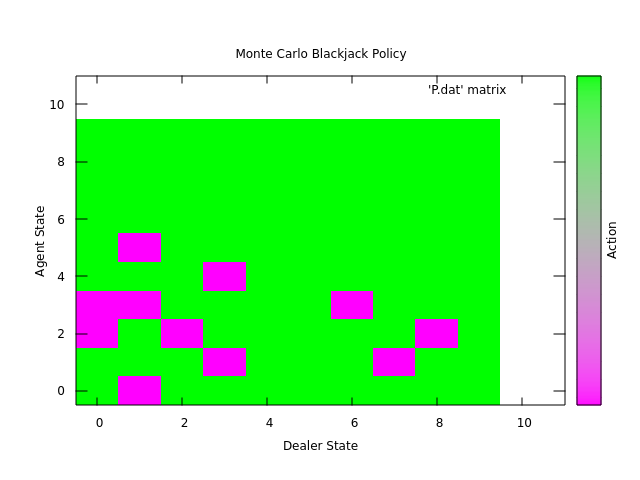
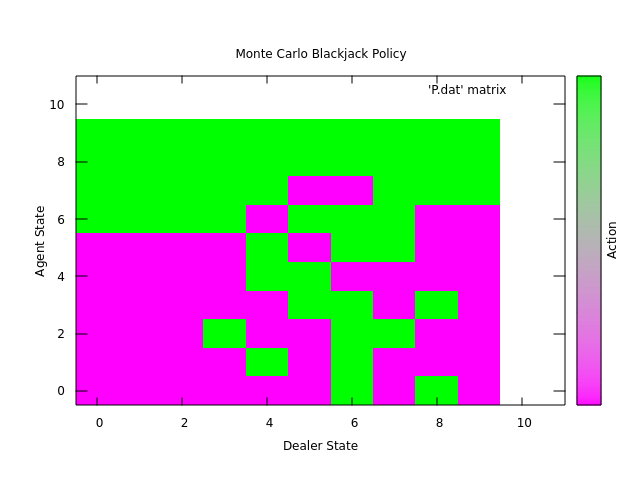
matches book better sort of fixed this example with a verbose unreadable solution issue may be that i am not enforcing first visit

Changed region(s): [[0.0938, 0.3438, 0.7812, 0.8438]]

diff --git a/Section 5.3 - Example 5.3/monte_carlo_blackjack.c b/Section 5.3 - Example 5.3/monte_carlo_blackjack.c
@@ -29,11 +29,9 @@ void monte_carlo_blackjack(double* Q, double* R, double* P, double* V, int episo
     /* Deal two hands */
     hand_add_card(&agent);
     hand_add_card(&agent);
-    hand_calculate_value(&agent);
 
     hand_add_card(&dealer);
     hand_add_card(&dealer);
-    hand_calculate_value(&dealer);
 
     /* Dealer play until he decides to stick */
     hand_dealer_plays(&dealer);
@@ -43,14 +41,10 @@ void monte_carlo_blackjack(double* Q, double* R, double* P, double* V, int episo
     /* Hit until agent.value > 12 */
     while (agent.value < 12) {
       hand_add_card(&agent);
-      hand_calculate_value(&agent);
     }
 
-    /* Random first action */
-    a = (blackjack_action)uniform_decision(1); /* uniform decision between 0 and 1 */
-    while (a == HIT) {
-      hand_add_card(&agent); /* deal a card */
-      hand_calculate_value(&agent); /* calculate new hand value */
+    /* Play a hand */
+    do {
       /* If agent has busted, break */
       if (agent.bust) break;
       else { /* agent has not busted yet */
@@ -59,32 +53,45 @@ void monte_carlo_blackjack(double* Q, double* R, double* P, double* V, int episo
         i2 = hand_has_usable_ace(&agent); /* Check if Agent has usable ace */
         /* Get action from policy */
         a = (blackjack_action)get_volk_3d(P, i0, i1, i2, S0*S1*S2);
+        if (a == HIT) hand_add_card(&agent);
       }
-    }
-
+    } while (a == HIT);
+    
     /* Decide winner */
     winner = hand_decide_winner(&agent, &dealer);
 
-    /* Agent state, based off hand value before busting */
-    i0 = hand_value_before_busting(&agent) - 12; /* convert hand value to index 0-9 */
-    i2 = hand_has_usable_ace(&agent); /* check usable ace again, incase random `a` is STICK */
+    /* Reverse through hand that was just played */
+    do {
+      // printf("agent.L = %d, agent.value = %d \n", agent.L, agent.value);
+      if (agent.bust) {
+        i0 = hand_value_before_busting(&agent) - 12; /* convert hand value to index 0-9 */
+        agent.L--;
+      } else {
+        i0 = agent.value - 12;
+      }
+      a = (blackjack_action)get_volk_3d(P, i0, i1, i2, S0*S1*S2); /* get action at this state */
+      i2 = hand_has_usable_ace(&agent);
 
-    /* Update action-state-value */
-    set_volk_4d(Q, get_volk_4d(Q, i0, i1, i2, (int)a, S0*S1*S2*A0) + (double)winner, /* add to itself */
-                i0, i1, i2, (int)a, S0*S1*S2*A0); /* summation of all rewards at this action-state */
-    set_volk_4d(R, get_volk_4d(R, i0, i1, i2, (int)a, S0*S1*S2*A0) + 1.0f, /* increment by 1 */
-                i0, i1, i2, (int)a, S0*S1*S2*A0); /* visits to this action-state */
-    /* Choose action with higher value */
-    /* Qa: averaged action-state value */
-    Qa[0] = get_volk_4d(Q, i0, i1, i2, 0, S0*S1*S2*A0) / get_volk_4d(R, i0, i1, i2, 0, S0*S1*S2*A0);
-    Qa[1] = get_volk_4d(Q, i0, i1, i2, 1, S0*S1*S2*A0) / get_volk_4d(R, i0, i1, i2, 1, S0*S1*S2*A0);
-    Qa_argmax = argmax(Qa, 2);
+      /* Update action-state-value */
+      set_volk_4d(Q, get_volk_4d(Q, i0, i1, i2, (int)a, S0*S1*S2*A0) + (double)winner, /* add to itself */
+                  i0, i1, i2, (int)a, S0*S1*S2*A0); /* summation of all rewards at this action-state */
+      set_volk_4d(R, get_volk_4d(R, i0, i1, i2, (int)a, S0*S1*S2*A0) + 1.0f, /* increment by 1 */
+                  i0, i1, i2, (int)a, S0*S1*S2*A0); /* visits to this action-state */
+      /* Choose action with higher value */
+      /* Qa: averaged action-state value */
+      Qa[0] = get_volk_4d(Q, i0, i1, i2, 0, S0*S1*S2*A0) / get_volk_4d(R, i0, i1, i2, 0, S0*S1*S2*A0);
+      Qa[1] = get_volk_4d(Q, i0, i1, i2, 1, S0*S1*S2*A0) / get_volk_4d(R, i0, i1, i2, 1, S0*S1*S2*A0);
+      Qa_argmax = argmax(Qa, 2);
 
-    /* policy is argmax of both actions at current action state */
-    set_volk_3d(P, (double)Qa_argmax, i0, i1, i2, S0*S1*S2);
+      /* policy is argmax of both actions at current action state */
+      set_volk_3d(P, (double)Qa_argmax, i0, i1, i2, S0*S1*S2);
 
-    /* state value is action-state value at argmax of both actions */
-    set_volk_3d(V, Qa[Qa_argmax], i0, i1, i2, S0*S1*S2);
+      /* state value is action-state value at argmax of both actions */
+      set_volk_3d(V, Qa[Qa_argmax], i0, i1, i2, S0*S1*S2);
+
+      /* Decrement length of hand to get previous states */
+      agent.L--;
+    } while ((hand_calculate_value(&agent) > 11 && hand_calculate_value(&agent) < 22));
   }
 
   return;

diff --git a/Section 5.3 - Example 5.3/main.c b/Section 5.3 - Example 5.3/main.c
@@ -45,7 +45,7 @@ int main (int argc, char** argv) {
   if (argc > 1) mc_debug = atoi(argv[1]);
 
   /* Get number of episodes from commandline parameter */
-  int episodes = 500000; /* default */
+  int episodes = 5000000; /* default */
 
   /* Set random seed */
   srand(time(NULL));
@@ -69,7 +69,7 @@ int main (int argc, char** argv) {
       Q[i] = 0.0f;
       R[i] = 1.0f;
       if (i < S0*S1*S2) { /* only 3d */
-        P[i] = (double)uniform_decision(1); /* random policy */
+        P[i] = uniform_decision(2); /* random policy */
         V[i] = 0.0f;
       }
     }

diff --git a/Section 5.3 - Example 5.3/functions.c b/Section 5.3 - Example 5.3/functions.c
@@ -66,7 +66,7 @@ int uniform_decision(int len) {
   double d = 0, p = 0;
   d = (double)rand()/RAND_MAX;
   for (int i = 0; i < len; i++)
-    if (d > p && d < (p+=pi)) return i;
+    if ((d > p) && (d < (p+=pi))) return i;
 
   /* Should not reach here */
   return 0;

diff --git a/Section 5.3 - Example 5.3/blackjack.c b/Section 5.3 - Example 5.3/blackjack.c
@@ -60,10 +60,10 @@ int hand_calculate_value(hand* h) {
     }
     if (h->value > 21) {
       hand_bust(h);
-      return 1;
+      return h->value;
     } else h->bust = 0;
   }
-  return 0;
+  return h->value;
 }
 
 player hand_bust(hand* h) {

diff --git a/Section 5.3 - Example 5.3/README.md b/Section 5.3 - Example 5.3/README.md
@@ -19,7 +19,7 @@ Replot the state-value function (V*) as a heatmap to better understand it:
 
 ![](V_heatmap.png)
 
-The policy, however, is very different to that in the book.
+The policy, however, is different to that in the book.
 Legend: Stick is 1 (green), Hit is 0 (magenta):
 
 ![](Policy_heatmap.png)
